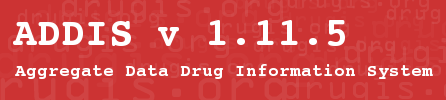
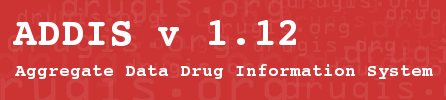
Automated changes for 1.12

Changed region(s): [[0.6121, 0.18, 0.787, 0.48]]

diff --git a/installer/src/izpack/README.html b/installer/src/izpack/README.html
@@ -15,9 +15,11 @@ modern operating systems ship with a suitable JRE.</p>
 
 <h2>Versions</h2>
 
-<p>1.11: Add <a href="http://dx.doi.org/10.1038/clpt.2010.291">BRAT table</a> and its value tree to benefit-risk view,
+<p>1.12: Add <a href="http://dx.doi.org/10.1038/clpt.2010.291">BRAT table</a> and its value tree to benefit-risk view,
    allow selection of baseline in benefit-risk analysis, enable BRAT
-   description of benefit-risk analysis.</p>
+   description of benefit-risk analysis, improve performance of network
+   meta-analysis wizard, clarify error dialog with bug reporting
+   instructions, fix many bugs.</p>
 
 <p>1.10.1: Bugfix release</p>
 
